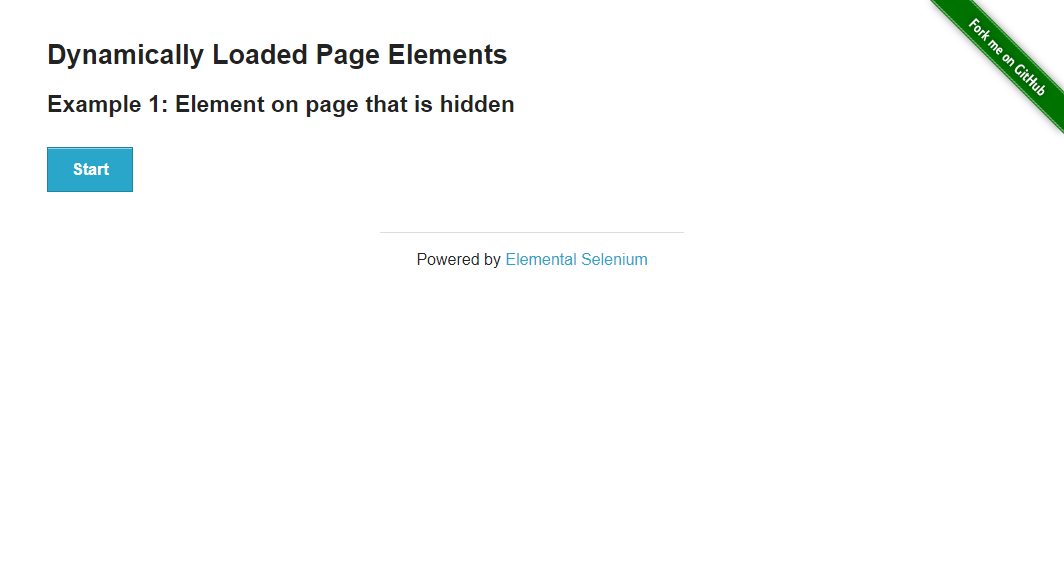
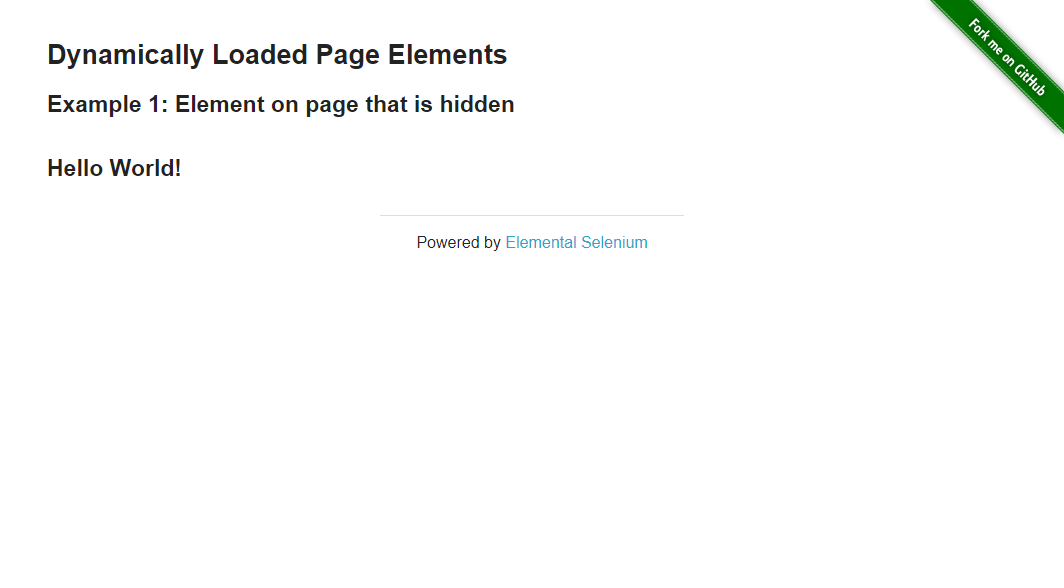
Logs do teste atulizado.

Changed region(s): [[0.3722, 0.398, 0.6203, 0.4592], [0.031, 0.2449, 0.1861, 0.3367]]

diff --git a/desafio_pratico/logs/log.html b/desafio_pratico/logs/log.html
@@ -1750,25 +1750,25 @@ function stopPropagation(event) {
 window.output = {};
 </script>
 <script type="text/javascript">
-window.output["suite"] = [1,2,3,0,[],[1,0,13826],[[4,5,6,7,[],[1,31,13792],[],[[8,0,1,0,[],[1,250,13571],[[1,9,10,0,0,0,0,0,[1,250,6078],[[0,11,12,0,13,14,0,0,[1,250,5955],[],[[250,2,15]]],[0,16,12,0,17,18,0,0,[1,6205,122],[],[]],[0,19,12,0,20,21,0,0,[1,6327,1],[],[]]],[]],[0,22,23,0,0,0,0,0,[1,6329,50],[[0,24,12,0,25,26,0,0,[1,6330,49],[],[[6331,2,27]]]],[]],[0,28,23,0,0,0,0,0,[1,6379,5195],[[0,29,12,0,30,31,0,0,[1,6380,5194],[],[]]],[]],[0,32,23,0,0,0,0,0,[1,11574,31],[[0,33,12,0,34,35,0,0,[1,11574,31],[],[[11605,2,36]]]],[]],[2,37,10,0,0,0,0,0,[1,11605,2215],[[0,38,12,0,39,0,0,0,[1,11605,97],[],[[11702,2,40]]],[0,41,12,0,42,0,0,0,[1,11702,2118],[],[]]],[]]]]],[],[1,1,1,1]]],[],[],[1,1,1,1]];
+window.output["suite"] = [1,2,3,0,[],[1,0,13353],[[4,5,6,7,[],[1,20,13331],[],[[8,0,1,0,[],[1,170,13178],[[1,9,10,0,0,0,0,0,[1,171,5828],[[0,11,12,0,13,14,0,0,[1,171,5714],[],[[171,2,15]]],[0,16,12,0,17,18,0,0,[1,5885,113],[],[]],[0,19,12,0,20,21,0,0,[1,5998,1],[],[]]],[]],[0,22,23,0,0,0,0,0,[1,6000,41],[[0,24,12,0,25,26,0,0,[1,6000,41],[],[[6000,2,27]]]],[]],[0,28,23,0,0,0,0,0,[1,6042,5131],[[0,29,12,0,30,31,0,0,[1,6042,5131],[],[]]],[]],[0,32,23,0,0,0,0,0,[1,11174,16],[[0,33,12,0,34,35,0,0,[1,11174,16],[],[[11190,2,36]]]],[]],[2,37,10,0,0,0,0,0,[1,11191,2156],[[0,38,12,0,39,0,0,0,[1,11192,64],[],[[11256,2,40]]],[0,41,12,0,42,0,0,0,[1,11256,2091],[],[]]],[]]]]],[],[1,1,1,1]]],[],[],[1,1,1,1]];
 </script>
 <script type="text/javascript">
 window.output["strings"] = [];
 </script>
 <script type="text/javascript">
[2 lines of base64/hex data omitted]
 </script>
 <script type="text/javascript">
-window.output["stats"] = [[{"elapsed":"00:00:14","fail":0,"label":"Critical Tests","pass":1},{"elapsed":"00:00:14","fail":0,"label":"All Tests","pass":1}],[],[{"elapsed":"00:00:14","fail":0,"id":"s1","label":"Tests","name":"Tests","pass":1},{"elapsed":"00:00:14","fail":0,"id":"s1-s1","label":"Tests.Flowtests.Tests","name":"Flowtests.Tests","pass":1}]];
+window.output["stats"] = [[{"elapsed":"00:00:13","fail":0,"label":"Critical Tests","pass":1},{"elapsed":"00:00:13","fail":0,"label":"All Tests","pass":1}],[],[{"elapsed":"00:00:13","fail":0,"id":"s1","label":"Tests","name":"Tests","pass":1},{"elapsed":"00:00:13","fail":0,"id":"s1-s1","label":"Tests.Flowtests.Tests","name":"Flowtests.Tests","pass":1}]];
 </script>
 <script type="text/javascript">
 window.output["errors"] = [];
 </script>
 <script type="text/javascript">
-window.output["baseMillis"] = 1622301815973;
+window.output["baseMillis"] = 1622303238508;
 </script>
 <script type="text/javascript">
-window.output["generated"] = 13832;
+window.output["generated"] = 13359;
 </script>
 <script type="text/javascript">
 window.output["expand_keywords"] = null;

diff --git a/desafio_pratico/logs/report.html b/desafio_pratico/logs/report.html
@@ -1585,7 +1585,7 @@ storage = function () {
 window.output = {};
 </script>
 <script type="text/javascript">
-window.output["suite"] = [1,2,3,0,[],[1,0,13826],[[4,5,6,7,[],[1,31,13792],[],[[8,0,1,0,[],[1,250,13571],[]]],[],[1,1,1,1]]],[],[],[1,1,1,1]];
+window.output["suite"] = [1,2,3,0,[],[1,0,13353],[[4,5,6,7,[],[1,20,13331],[],[[8,0,1,0,[],[1,170,13178],[]]],[],[1,1,1,1]]],[],[],[1,1,1,1]];
 </script>
 <script type="text/javascript">
 window.output["strings"] = [];
@@ -1594,13 +1594,13 @@ window.output["strings"] = [];
 window.output["strings"] = window.output["strings"].concat(["*","*Tests","*D:\\pessoal\\desafio_pb\\git\\desafio_tecnico_qa_pb\\desafio_pratico\\tests","*../tests","*Flowtests.Tests","*D:\\pessoal\\desafio_pb\\git\\desafio_tecnico_qa_pb\\desafio_pratico\\tests\\flowtests.tests.robot","*../tests/flowtests.tests.robot","*<p>The purpose of this test case is to validate that the application displays the text \"Hello World!\" after executing the Start function.\x3c/p>","*Test Case 01: Validate Start function"]);
 </script>
 <script type="text/javascript">
-window.output["stats"] = [[{"elapsed":"00:00:14","fail":0,"label":"Critical Tests","pass":1},{"elapsed":"00:00:14","fail":0,"label":"All Tests","pass":1}],[],[{"elapsed":"00:00:14","fail":0,"id":"s1","label":"Tests","name":"Tests","pass":1},{"elapsed":"00:00:14","fail":0,"id":"s1-s1","label":"Tests.Flowtests.Tests","name":"Flowtests.Tests","pass":1}]];
+window.output["stats"] = [[{"elapsed":"00:00:13","fail":0,"label":"Critical Tests","pass":1},{"elapsed":"00:00:13","fail":0,"label":"All Tests","pass":1}],[],[{"elapsed":"00:00:13","fail":0,"id":"s1","label":"Tests","name":"Tests","pass":1},{"elapsed":"00:00:13","fail":0,"id":"s1-s1","label":"Tests.Flowtests.Tests","name":"Flowtests.Tests","pass":1}]];
 </script>
 <script type="text/javascript">
-window.output["baseMillis"] = 1622301815973;
+window.output["baseMillis"] = 1622303238508;
 </script>
 <script type="text/javascript">
-window.output["generated"] = 13832;
+window.output["generated"] = 13359;
 </script>
 <script type="text/javascript">
 window.output["expand_keywords"] = null;
